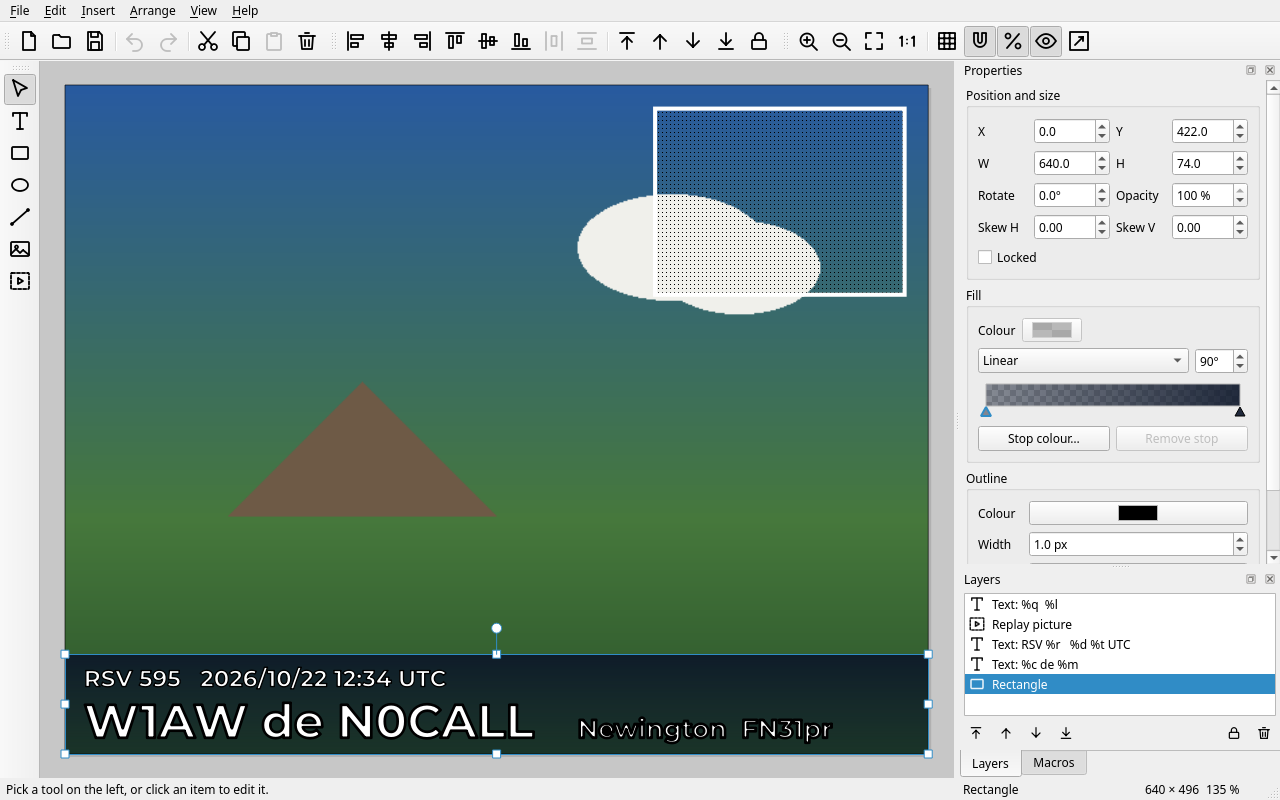
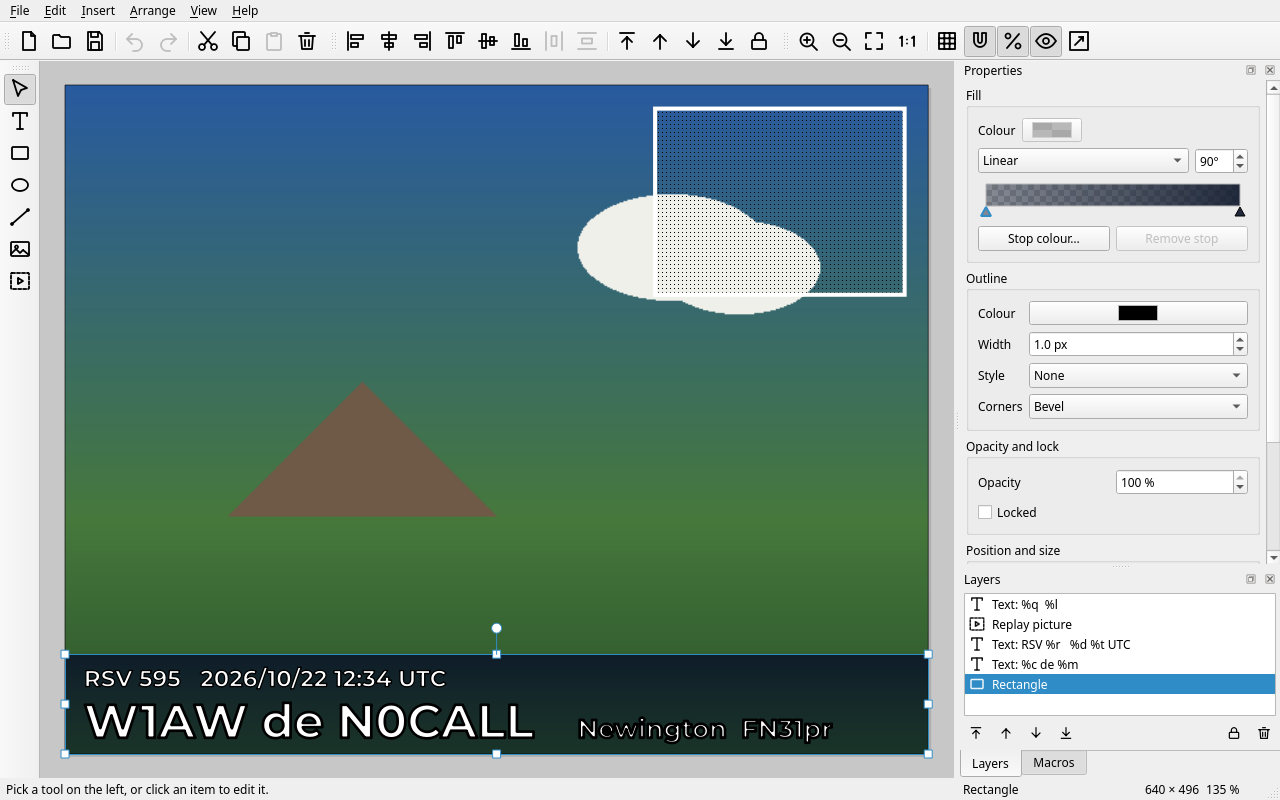
Reorder the template editor's Properties pane: position and size last
Position and size are mostly set by dragging, so the panel now runs from what the
item is to where it sits: Picture (picture and replay window), Text, Fill,
Outline, Opacity and lock, then Position and size (X, Y, W, H, rotate, skew).
Opacity and lock moved out of the position box into a small section of their own.

tests/editor: testPanelOrder() checks the visible section order for text,
rectangle, ellipse, line, picture, replay window and two mixed selections.
The User's Guide describes the order and two of its screenshots are regenerated.

diff --git a/documentation/userguide/pages/template-editor.html b/documentation/userguide/pages/template-editor.html
@@ -71,7 +71,8 @@ picture of the Transmit tab is shown behind the template. It is only a guide and
 </dl>
 
 <h2 id="look">Colours, gradients, outlines and fonts</h2>
-<p>The Properties panel changes every selected item at once.</p>
+<p>The Properties panel changes every selected item at once. Its sections run from what the item is to where it sits: the text or picture first, then fill, outline, opacity and lock,
+ and last position, size and rotation, which you mostly set by dragging on the canvas.</p>
 <figure><img src="../images/template-editor-gradient.png" alt="The template editor with a rectangle selected; the Fill section shows a linear gradient with two colour stops" loading="lazy"><figcaption>A rectangle with a linear gradient fill from transparent to dark. Click the bar to add a colour stop, drag a stop to move it, double-click it to change its colour.</figcaption></figure>
 <dl>
 <dt>Fill</dt><dd>A solid colour (with transparency) or a linear, radial or conical gradient for text, rectangles and ellipses.</dd>

diff --git a/src/editor/propertiespanel.cpp b/src/editor/propertiespanel.cpp
@@ -123,81 +123,15 @@ void PropertiesPanel::build()
   emptyLabel->setAlignment(Qt::AlignTop | Qt::AlignLeft);
   top->addWidget(emptyLabel);
 
-  // --- position and size -----------------------------------------------------------------------------------
-  geometryBox = new QGroupBox(tr("Position and size"));
-  QGridLayout *g = new QGridLayout(geometryBox);
-  xSpin = spin(-20000, 20000, 1, 1);
-  ySpin = spin(-20000, 20000, 1, 1);
-  wSpin = spin(1, 20000, 1, 1);
-  hSpin = spin(1, 20000, 1, 1);
-  rotSpin = spin(-180, 180, 1, 1, QStringLiteral("°"));
-  rotSpin->setWrapping(true);
-  shearHSpin = spin(-5, 5, 0.05, 2);
-  shearVSpin = spin(-5, 5, 0.05, 2);
-  opacitySpin = spin(0, 100, 5, 0, QStringLiteral(" %"));
-  lockedCheck = new QCheckBox(tr("Locked"));
-  xSpin->setToolTip(tr("Distance of the left edge from the left side of the picture, in picture pixels"));
-  ySpin->setToolTip(tr("Distance of the top edge from the top of the picture, in picture pixels"));
-  wSpin->setToolTip(tr("Width (text items are sized by their font size)"));
-  hSpin->setToolTip(tr("Height (text items are sized by their font size; a line's thickness is its outline width)"));
-  rotSpin->setToolTip(tr("Rotation about the centre of the item. Shift while dragging the rotate handle snaps to 15°"));
-  shearHSpin->setToolTip(tr("Horizontal skew"));
-  shearVSpin->setToolTip(tr("Vertical skew"));
-  opacitySpin->setToolTip(tr("0 % is invisible, 100 % is solid"));
-  lockedCheck->setToolTip(tr("A locked item cannot be moved or clicked on the canvas (select it in the Layers list to unlock it)"));
-  g->addWidget(new QLabel(tr("X")), 0, 0);
-  g->addWidget(xSpin, 0, 1);
-  g->addWidget(new QLabel(tr("Y")), 0, 2);
-  g->addWidget(ySpin, 0, 3);
-  g->addWidget(new QLabel(tr("W")), 1, 0);
-  g->addWidget(wSpin, 1, 1);
-  g->addWidget(new QLabel(tr("H")), 1, 2);
-  g->addWidget(hSpin, 1, 3);
-  g->addWidget(new QLabel(tr("Rotate")), 2, 0);
-  g->addWidget(rotSpin, 2, 1);
-  g->addWidget(new QLabel(tr("Opacity")), 2, 2);
-  g->addWidget(opacitySpin, 2, 3);
-  g->addWidget(new QLabel(tr("Skew H")), 3, 0);
-  g->addWidget(shearHSpin, 3, 1);
-  g->addWidget(new QLabel(tr("Skew V")), 3, 2);
-  g->addWidget(shearVSpin, 3, 3);
-  g->addWidget(lockedCheck, 4, 0, 1, 4);
-  top->addWidget(geometryBox);
-
-  // --- fill ------------------------------------------------------------------------------------------------
-  fillBox = new QGroupBox(tr("Fill"));
-  QVBoxLayout *fl = new QVBoxLayout(fillBox);
-  QHBoxLayout *fr = new QHBoxLayout;
-  fr->addWidget(new QLabel(tr("Colour")));
-  fillButton = swatch(tr("Fill colour (click to change)"));
-  fr->addWidget(fillButton);
-  fr->addStretch();
-  fl->addLayout(fr);
-  gradientEdit = new GradientEdit;
-  fl->addWidget(gradientEdit);
-  top->addWidget(fillBox);
-
-  // --- outline ---------------------------------------------------------------------------------------------
-  outlineBox = new QGroupBox(tr("Outline"));
-  QFormLayout *ol = new QFormLayout(outlineBox);
-  outlineColorButton = swatch(tr("Outline colour (click to change)"));
-  outlineWidthSpin = spin(0, 200, 0.5, 1, QStringLiteral(" px"));
-  outlineStyleCombo = new QComboBox;
-  outlineStyleCombo->addItem(tr("None"), int(Qt::NoPen));
-  outlineStyleCombo->addItem(tr("Solid"), int(Qt::SolidLine));
-  outlineStyleCombo->addItem(tr("Dashed"), int(Qt::DashLine));
-  outlineStyleCombo->addItem(tr("Dotted"), int(Qt::DotLine));
-  outlineStyleCombo->addItem(tr("Dash-dot"), int(Qt::DashDotLine));
-  outlineJoinCombo = new QComboBox;
-  outlineJoinCombo->addItem(tr("Round"), int(Qt::RoundJoin));
-  outlineJoinCombo->addItem(tr("Mitre"), int(Qt::MiterJoin));
-  outlineJoinCombo->addItem(tr("Bevel"), int(Qt::BevelJoin));
-  outlineJoinLabel = new QLabel(tr("Corners"));
-  ol->addRow(tr("Colour"), outlineColorButton);
-  ol->addRow(tr("Width"), outlineWidthSpin);
-  ol->addRow(tr("Style"), outlineStyleCombo);
-  ol->addRow(outlineJoinLabel, outlineJoinCombo);
-  top->addWidget(outlineBox);
+  // --- picture -----------------------------------------------------------------------------------------------
+  pictureBox = new QGroupBox(tr("Picture"));
+  QVBoxLayout *pl = new QVBoxLayout(pictureBox);
+  pictureInfo = new QLabel;
+  pictureInfo->setWordWrap(true);
+  replaceImageButton = new QPushButton(tr("Replace picture…"));
+  pl->addWidget(pictureInfo);
+  pl->addWidget(replaceImageButton);
+  top->addWidget(pictureBox);
 
   // --- text ------------------------------------------------------------------------------------------------
   textBox = new QGroupBox(tr("Text"));
@@ -245,15 +179,87 @@ void PropertiesPanel::build()
   tl->addLayout(styleRow);
   top->addWidget(textBox);
 
-  // --- picture -----------------------------------------------------------------------------------------------
-  pictureBox = new QGroupBox(tr("Picture"));
-  QVBoxLayout *pl = new QVBoxLayout(pictureBox);
-  pictureInfo = new QLabel;
-  pictureInfo->setWordWrap(true);
-  replaceImageButton = new QPushButton(tr("Replace picture…"));
-  pl->addWidget(pictureInfo);
-  pl->addWidget(replaceImageButton);
-  top->addWidget(pictureBox);
+  // --- fill ------------------------------------------------------------------------------------------------
+  fillBox = new QGroupBox(tr("Fill"));
+  QVBoxLayout *fl = new QVBoxLayout(fillBox);
+  QHBoxLayout *fr = new QHBoxLayout;
+  fr->addWidget(new QLabel(tr("Colour")));
+  fillButton = swatch(tr("Fill colour (click to change)"));
+  fr->addWidget(fillButton);
+  fr->addStretch();
+  fl->addLayout(fr);
+  gradientEdit = new GradientEdit;
+  fl->addWidget(gradientEdit);
+  top->addWidget(fillBox);
+
+  // --- outline ---------------------------------------------------------------------------------------------
+  outlineBox = new QGroupBox(tr("Outline"));
+  QFormLayout *ol = new QFormLayout(outlineBox);
+  outlineColorButton = swatch(tr("Outline colour (click to change)"));
+  outlineWidthSpin = spin(0, 200, 0.5, 1, QStringLiteral(" px"));
+  outlineStyleCombo = new QComboBox;
+  outlineStyleCombo->addItem(tr("None"), int(Qt::NoPen));
+  outlineStyleCombo->addItem(tr("Solid"), int(Qt::SolidLine));
+  outlineStyleCombo->addItem(tr("Dashed"), int(Qt::DashLine));
+  outlineStyleCombo->addItem(tr("Dotted"), int(Qt::DotLine));
+  outlineStyleCombo->addItem(tr("Dash-dot"), int(Qt::DashDotLine));
+  outlineJoinCombo = new QComboBox;
+  outlineJoinCombo->addItem(tr("Round"), int(Qt::RoundJoin));
+  outlineJoinCombo->addItem(tr("Mitre"), int(Qt::MiterJoin));
+  outlineJoinCombo->addItem(tr("Bevel"), int(Qt::BevelJoin));
+  outlineJoinLabel = new QLabel(tr("Corners"));
+  ol->addRow(tr("Colour"), outlineColorButton);
+  ol->addRow(tr("Width"), outlineWidthSpin);
+  ol->addRow(tr("Style"), outlineStyleCombo);
+  ol->addRow(outlineJoinLabel, outlineJoinCombo);
+  top->addWidget(outlineBox);
+
+  // --- opacity and lock --------------------------------------------------------------------------------------
+  opacityBox = new QGroupBox(tr("Opacity and lock"));
+  QGridLayout *og = new QGridLayout(opacityBox);
+  opacitySpin = spin(0, 100, 5, 0, QStringLiteral(" %"));
+  lockedCheck = new QCheckBox(tr("Locked"));
+  opacitySpin->setToolTip(tr("0 % is invisible, 100 % is solid"));
+  lockedCheck->setToolTip(tr("A locked item cannot be moved or clicked on the canvas (select it in the Layers list to unlock it)"));
+  og->addWidget(new QLabel(tr("Opacity")), 0, 0);
+  og->addWidget(opacitySpin, 0, 1);
+  og->addWidget(lockedCheck, 1, 0, 1, 2);
+  top->addWidget(opacityBox);
+
+  // --- position and size -----------------------------------------------------------------------------------
+  geometryBox = new QGroupBox(tr("Position and size"));
+  QGridLayout *g = new QGridLayout(geometryBox);
+  xSpin = spin(-20000, 20000, 1, 1);
+  ySpin = spin(-20000, 20000, 1, 1);
+  wSpin = spin(1, 20000, 1, 1);
+  hSpin = spin(1, 20000, 1, 1);
+  rotSpin = spin(-180, 180, 1, 1, QStringLiteral("°"));
+  rotSpin->setWrapping(true);
+  shearHSpin = spin(-5, 5, 0.05, 2);
+  shearVSpin = spin(-5, 5, 0.05, 2);
+  xSpin->setToolTip(tr("Distance of the left edge from the left side of the picture, in picture pixels"));
+  ySpin->setToolTip(tr("Distance of the top edge from the top of the picture, in picture pixels"));
+  wSpin->setToolTip(tr("Width (text items are sized by their font size)"));
+  hSpin->setToolTip(tr("Height (text items are sized by their font size; a line's thickness is its outline width)"));
+  rotSpin->setToolTip(tr("Rotation about the centre of the item. Shift while dragging the rotate handle snaps to 15°"));
+  shearHSpin->setToolTip(tr("Horizontal skew"));
+  shearVSpin->setToolTip(tr("Vertical skew"));
+  g->addWidget(new QLabel(tr("X")), 0, 0);
+  g->addWidget(xSpin, 0, 1);
+  g->addWidget(new QLabel(tr("Y")), 0, 2);
+  g->addWidget(ySpin, 0, 3);
+  g->addWidget(new QLabel(tr("W")), 1, 0);
+  g->addWidget(wSpin, 1, 1);
+  g->addWidget(new QLabel(tr("H")), 1, 2);
+  g->addWidget(hSpin, 1, 3);
+  g->addWidget(new QLabel(tr("Rotate")), 2, 0);
+  g->addWidget(rotSpin, 2, 1);
+  g->addWidget(new QLabel(tr("Skew H")), 3, 0);
+  g->addWidget(shearHSpin, 3, 1);
+  g->addWidget(new QLabel(tr("Skew V")), 3, 2);
+  g->addWidget(shearVSpin, 3, 3);
+  top->addWidget(geometryBox);
+
   top->addStretch();
   setWidget(content);
 
@@ -369,7 +375,7 @@ void PropertiesPanel::build()
     {outlineStyleCombo, "outlineStyleCombo"}, {outlineJoinCombo, "outlineJoinCombo"}, {textEdit, "textEdit"},
     {macroWarning, "macroWarning"}, {fontWarning, "fontWarning"}, {fontCombo, "fontCombo"}, {sizeSpin, "sizeSpin"},
     {weightCombo, "weightCombo"}, {italicCheck, "italicCheck"}, {spacingSpin, "spacingSpin"}, {pictureInfo, "pictureInfo"},
-    {geometryBox, "geometryBox"}, {fillBox, "fillBox"}, {outlineBox, "outlineBox"}, {textBox, "textBox"}, {pictureBox, "pictureBox"}};
+    {pictureBox, "pictureBox"}, {textBox, "textBox"}, {fillBox, "fillBox"}, {outlineBox, "outlineBox"}, {opacityBox, "opacityBox"}, {geometryBox, "geometryBox"}};
   for (const auto &n : names) n.obj->setObjectName(QLatin1String(n.name));
 }
 
@@ -410,7 +416,7 @@ void PropertiesPanel::refresh()
   const QVector<tpl::Element> sel = canvas->selectedElements();
   const bool any = !sel.isEmpty();
   emptyLabel->setVisible(!any);
-  for (QGroupBox *b : {geometryBox, fillBox, outlineBox, textBox, pictureBox}) b->setVisible(any);
+  for (QGroupBox *b : {pictureBox, textBox, fillBox, outlineBox, opacityBox, geometryBox}) b->setVisible(any);
   if (!any) return;
 
   updating = true;

diff --git a/tests/editor/test.cpp b/tests/editor/test.cpp
@@ -890,6 +890,52 @@ static void testPropertiesPanel()
   check(d->doc().items.size() == items + 1 && d->doc().items.last().text == "%t", "addMacro adds a text item with the macro");
 }
 
+// The sections of the properties panel, top to bottom: what the item is made of first, how it is drawn next, where it sits last
+// (position and size are mostly set with the mouse).
+static void testPanelOrder()
+{
+  printf("== properties panel order\n");
+  Env env;
+  EditorDocument *d = env.d;
+  PropertiesPanel *p = panelOf(env.ed);
+  if (!p) return;
+  env.ed.resize(1500, 1400);   // tall enough that nothing needs the scroll bar
+  QApplication::processEvents();
+  const QStringList boxes = {"pictureBox", "textBox", "fillBox", "outlineBox", "opacityBox", "geometryBox"};
+  auto order = [&](const QStringList &ids) {
+    env.v->setSelection(ids);
+    QApplication::processEvents();
+    QApplication::processEvents();
+    QVector<QPair<int, QString>> shown;
+    for (const QString &n : boxes)
+      {
+        QWidget *w = panelChild<QWidget>(p, n.toLatin1().constData());
+        if (w && w->isVisibleTo(p)) shown << qMakePair(w->mapTo(p, QPoint(0, 0)).y(), n);
+      }
+    std::sort(shown.begin(), shown.end());
+    QStringList names;
+    for (const auto &s : shown) names << s.second;
+    return names.join(QLatin1Char(' '));
+  };
+  const QString text = add(*d, make(tpl::ItemType::Text, QPointF(20, 40)));
+  const QString rect = add(*d, make(tpl::ItemType::Rect, QPointF(20, 100)));
+  const QString ellipse = add(*d, make(tpl::ItemType::Ellipse, QPointF(20, 160)));
+  const QString line = add(*d, make(tpl::ItemType::Line, QPointF(20, 220)));
+  const QString image = add(*d, make(tpl::ItemType::Image, QPointF(20, 280)));
+  const QString replay = add(*d, make(tpl::ItemType::Replay, QPointF(20, 340)));
+  check(order({text}) == "textBox fillBox outlineBox opacityBox geometryBox", "text: text, fill, outline, opacity and lock, then position and size (" + order({text}) + ")");
+  check(order({rect}) == "fillBox outlineBox opacityBox geometryBox", "rectangle: fill, outline, opacity and lock, position and size (" + order({rect}) + ")");
+  check(order({ellipse}) == "fillBox outlineBox opacityBox geometryBox", "ellipse: the same (" + order({ellipse}) + ")");
+  check(order({line}) == "outlineBox opacityBox geometryBox", "line: its line style, opacity and lock, position and size (" + order({line}) + ")");
+  check(order({image}) == "pictureBox outlineBox opacityBox geometryBox", "picture: picture, border, opacity and lock, position and size (" + order({image}) + ")");
+  check(order({replay}) == "pictureBox outlineBox opacityBox geometryBox", "replay window: the same (" + order({replay}) + ")");
+  check(order({text, rect}) == "fillBox outlineBox opacityBox geometryBox", "text and rectangle together: what they share, position and size last (" + order({text, rect}) + ")");
+  check(order({text, line}) == "outlineBox opacityBox geometryBox", "text and line together: the outline, position and size last (" + order({text, line}) + ")");
+  env.v->clearSelection();
+  QApplication::processEvents();
+  check(order({}) .isEmpty(), "nothing selected: no sections, only the hint");
+}
+
 static void testLayersPanel()
 {
   printf("== layers panel\n");
@@ -1577,6 +1623,7 @@ int main(int argc, char **argv)
   testClipboard();
   testImages();
   testPropertiesPanel();
+  testPanelOrder();
   testLayersPanel();
   testFiles();
   testCanvasSize();

diff --git a/src/editor/propertiespanel.h b/src/editor/propertiespanel.h
@@ -1,6 +1,7 @@
 /***************************************************************************
- *   The properties dock of the template editor: position, size, rotation,  *
- *   fill, gradient, outline, text and font of the selected item(s).        *
+ *   The properties dock of the template editor: picture, text and font,    *
+ *   fill, gradient, outline, opacity and lock, and last the position, size *
+ *   and rotation (those are mostly set with the mouse) of the selection.   *
  *   Editing a field changes every selected item (where it applies) in one  *
  *   undo step; showing a selection never writes anything back.             *
  *                                                                          *
@@ -55,7 +56,7 @@ private:
   QTimer refreshTimer;
 
   QLabel *emptyLabel;
-  QGroupBox *geometryBox, *fillBox, *outlineBox, *textBox, *pictureBox;
+  QGroupBox *pictureBox, *textBox, *fillBox, *outlineBox, *opacityBox, *geometryBox;   // in the order they are shown
   QDoubleSpinBox *xSpin, *ySpin, *wSpin, *hSpin, *rotSpin, *shearHSpin, *shearVSpin, *opacitySpin;
   QCheckBox *lockedCheck;
   QPushButton *fillButton;
